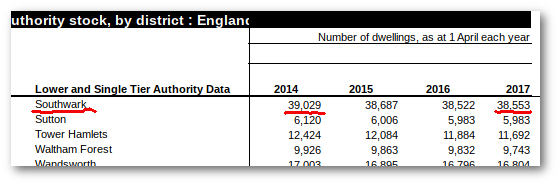
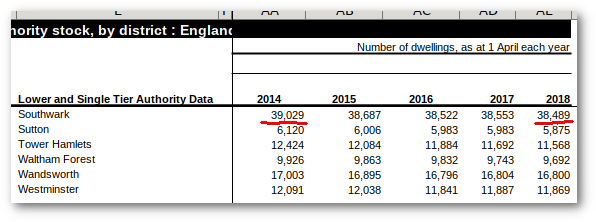
540

diff --git a/_posts/2018-11-12-11000-council-homes-manifesto-pledge.md b/_posts/2018-11-12-11000-council-homes-manifesto-pledge.md
@@ -21,7 +21,7 @@ Councillor John went one step further to pledge that the first 1500 net addition
 ![](http://35percent.org/img/1500councilhomes.png)
 *Extract from [2014 Cabinet report](http://moderngov.southwark.gov.uk/documents/s47488/Report%20Long%20term%20plans%20for%20the%20delivery%20of%20new%20council%20homes.pdf)*
 
-Four years on and we have taken a look at whether Councillor John has delivered on his manifesto pledge. [Official statistics](https://www.gov.uk/government/uploads/system/uploads/attachment_data/file/674346/LT_116.xlsx) from the government's [live tables](https://www.gov.uk/government/statistical-data-sets/live-tables-on-dwelling-stock-including-vacants) on local authority dwelling stock show that since the manifesto pledge in 2014 there has been a net reduction in Southwark's council housing stock of 476 council homes.
+Four years on and we have taken a look at whether Councillor John has delivered on his manifesto pledge. [Official statistics](https://www.gov.uk/government/uploads/system/uploads/attachment_data/file/674346/LT_116.xlsx) from the government's [live tables](https://www.gov.uk/government/statistical-data-sets/live-tables-on-dwelling-stock-including-vacants) on local authority dwelling stock show that since the manifesto pledge in 2014 there has been a net reduction in Southwark's council housing stock of 540 council homes.
 
 ![](http://35percent.org/img/livetableextract.png)
 *Extract from the government's [Live Table 116](https://www.gov.uk/government/uploads/system/uploads/attachment_data/file/674346/LT_116.xlsx)*
@@ -33,7 +33,7 @@ In addition, it has [sold 1,300 council homes under the Right to Buy since 2012]
 Meanwhile, this [30th Oct 2018 Cabinet report](http://moderngov.southwark.gov.uk/documents/s78248/Report%20New%20Homes%20Programme%20Delivery%20Model%20Review%202018.pdf) confirms that the council has built just 262 council homes over 5 years (para 12).  
 
 ## Buying affordable housing instead
-The [Cabinet report](http://moderngov.southwark.gov.uk/documents/s78248/Report%20New%20Homes%20Programme%20Delivery%20Model%20Review%202018.pdf) confirms that an additional 239 units of developer-built (S106) affordable housing have been bought by Southwark, to become council housing (para 17). One such example is Blackfriars Circus, where the Council has [bought](http://35percent.org/2017-04-29-blackfriars-affordable-housing-circus/) 56 homes for £10m from developer Barratt.
+The [Cabinet report](http://moderngov.southwark.gov.uk/documents/s78248/Report%20New%20Homes%20Programme%20Delivery%20Model%20Review%202018.pdf) confirms that an additional 239 units of developer-built (S106) affordable housing have been bought by Southwark, to become council housing (para 17). One such example is Blackfriars Circus, where the Council has [bought](http://35percent.org/2017-04-29-blackfriars-affordable-housing-circus/) 56 homes for £10m from dev eloper Barratt.
 
 ![](http://35percent.org/img/tweetmwilliamsblackfriars.png)
 
